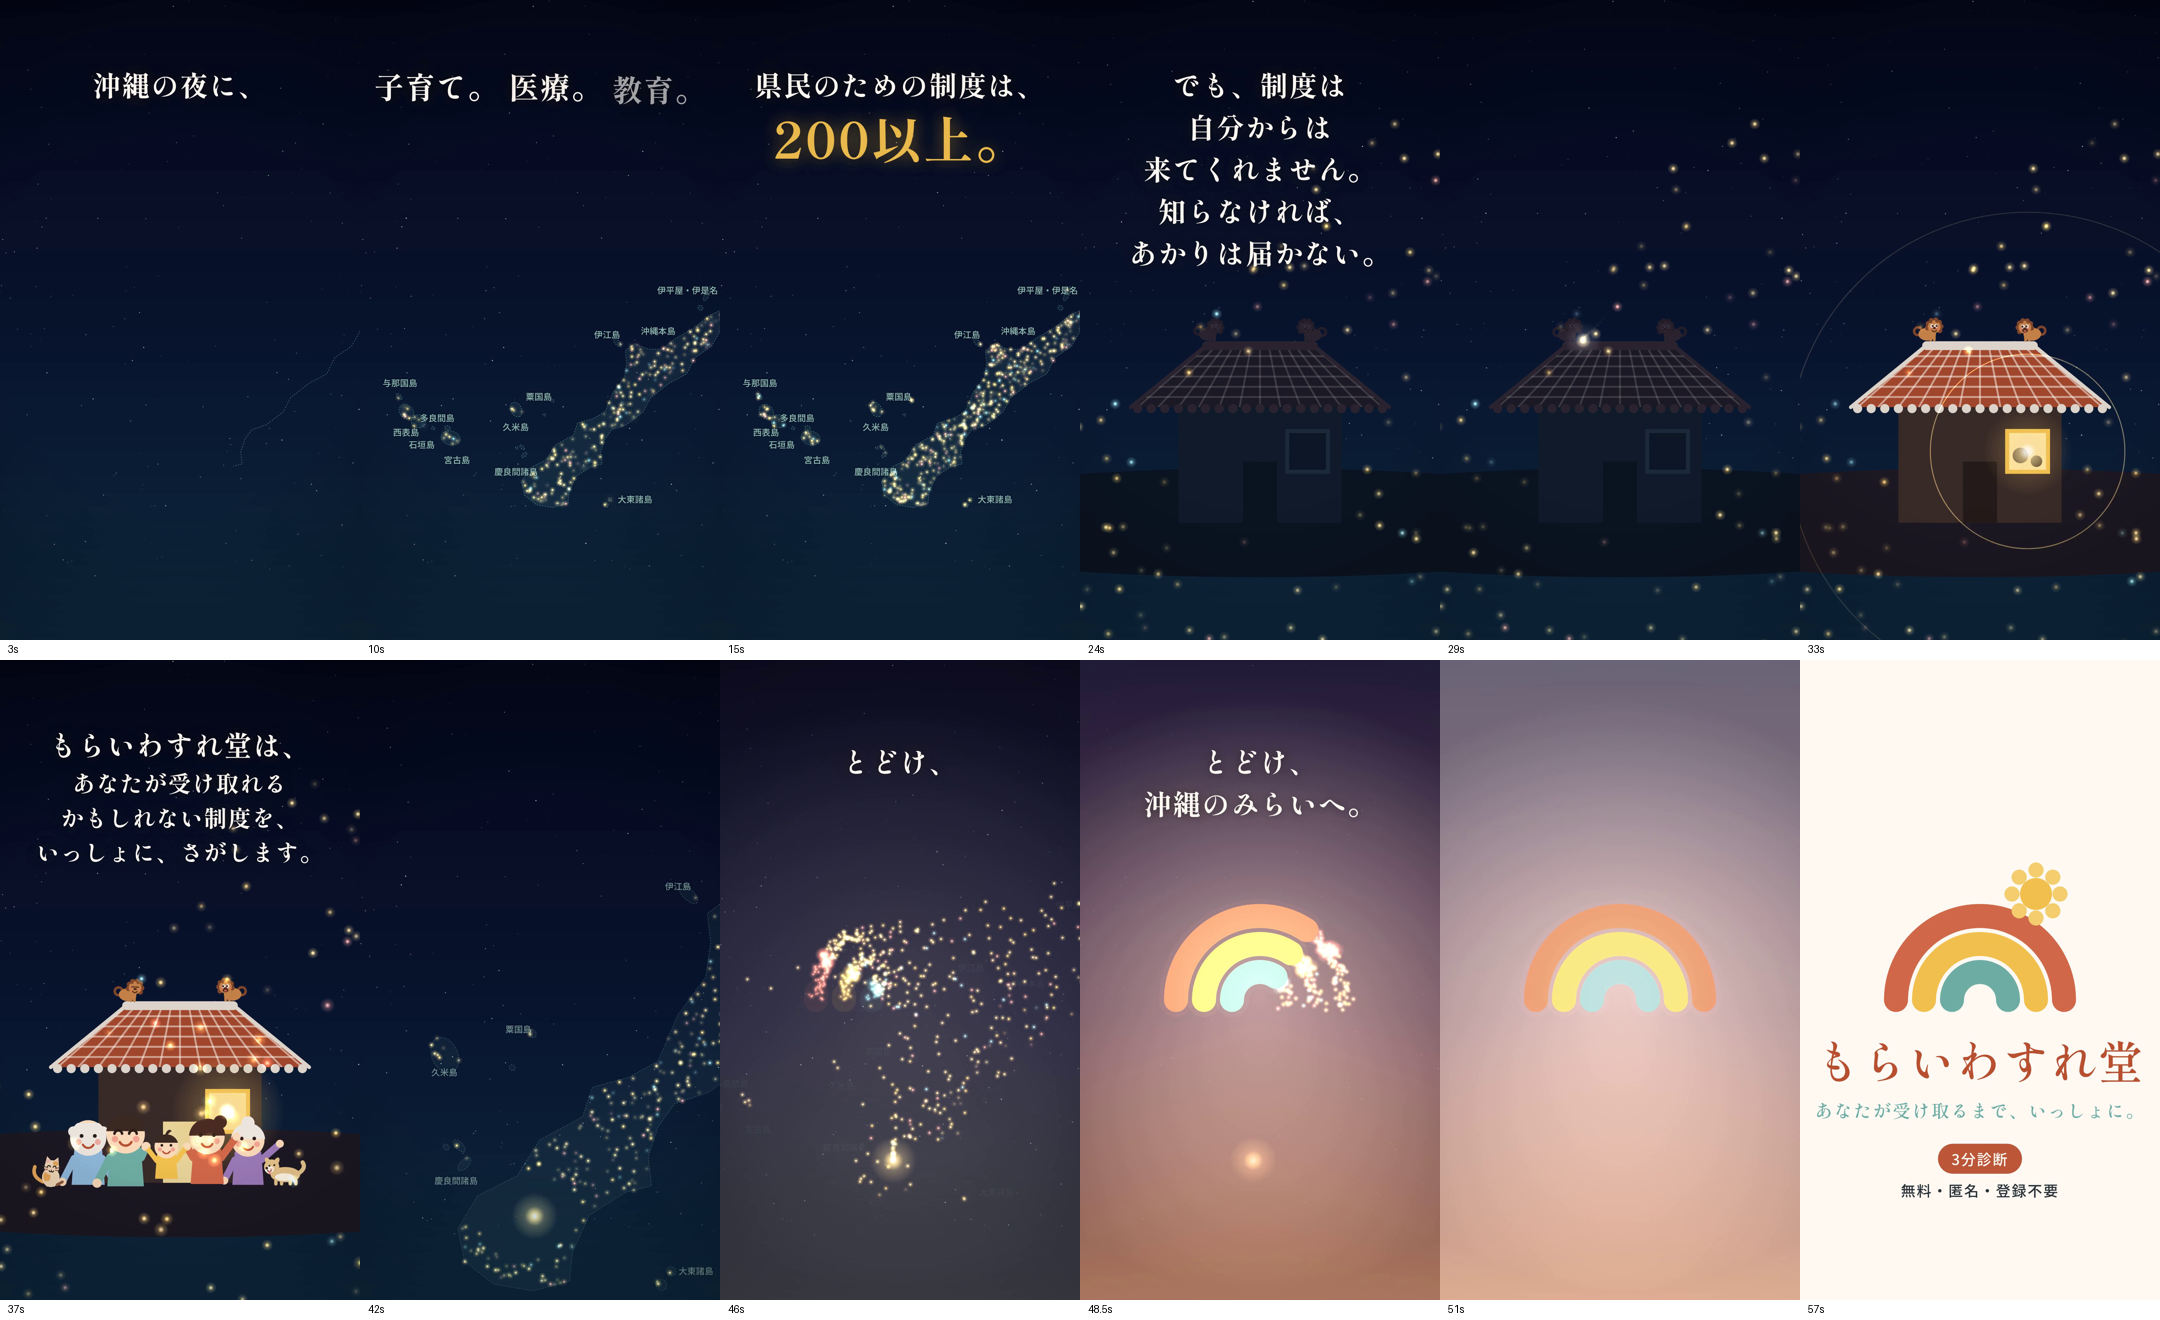
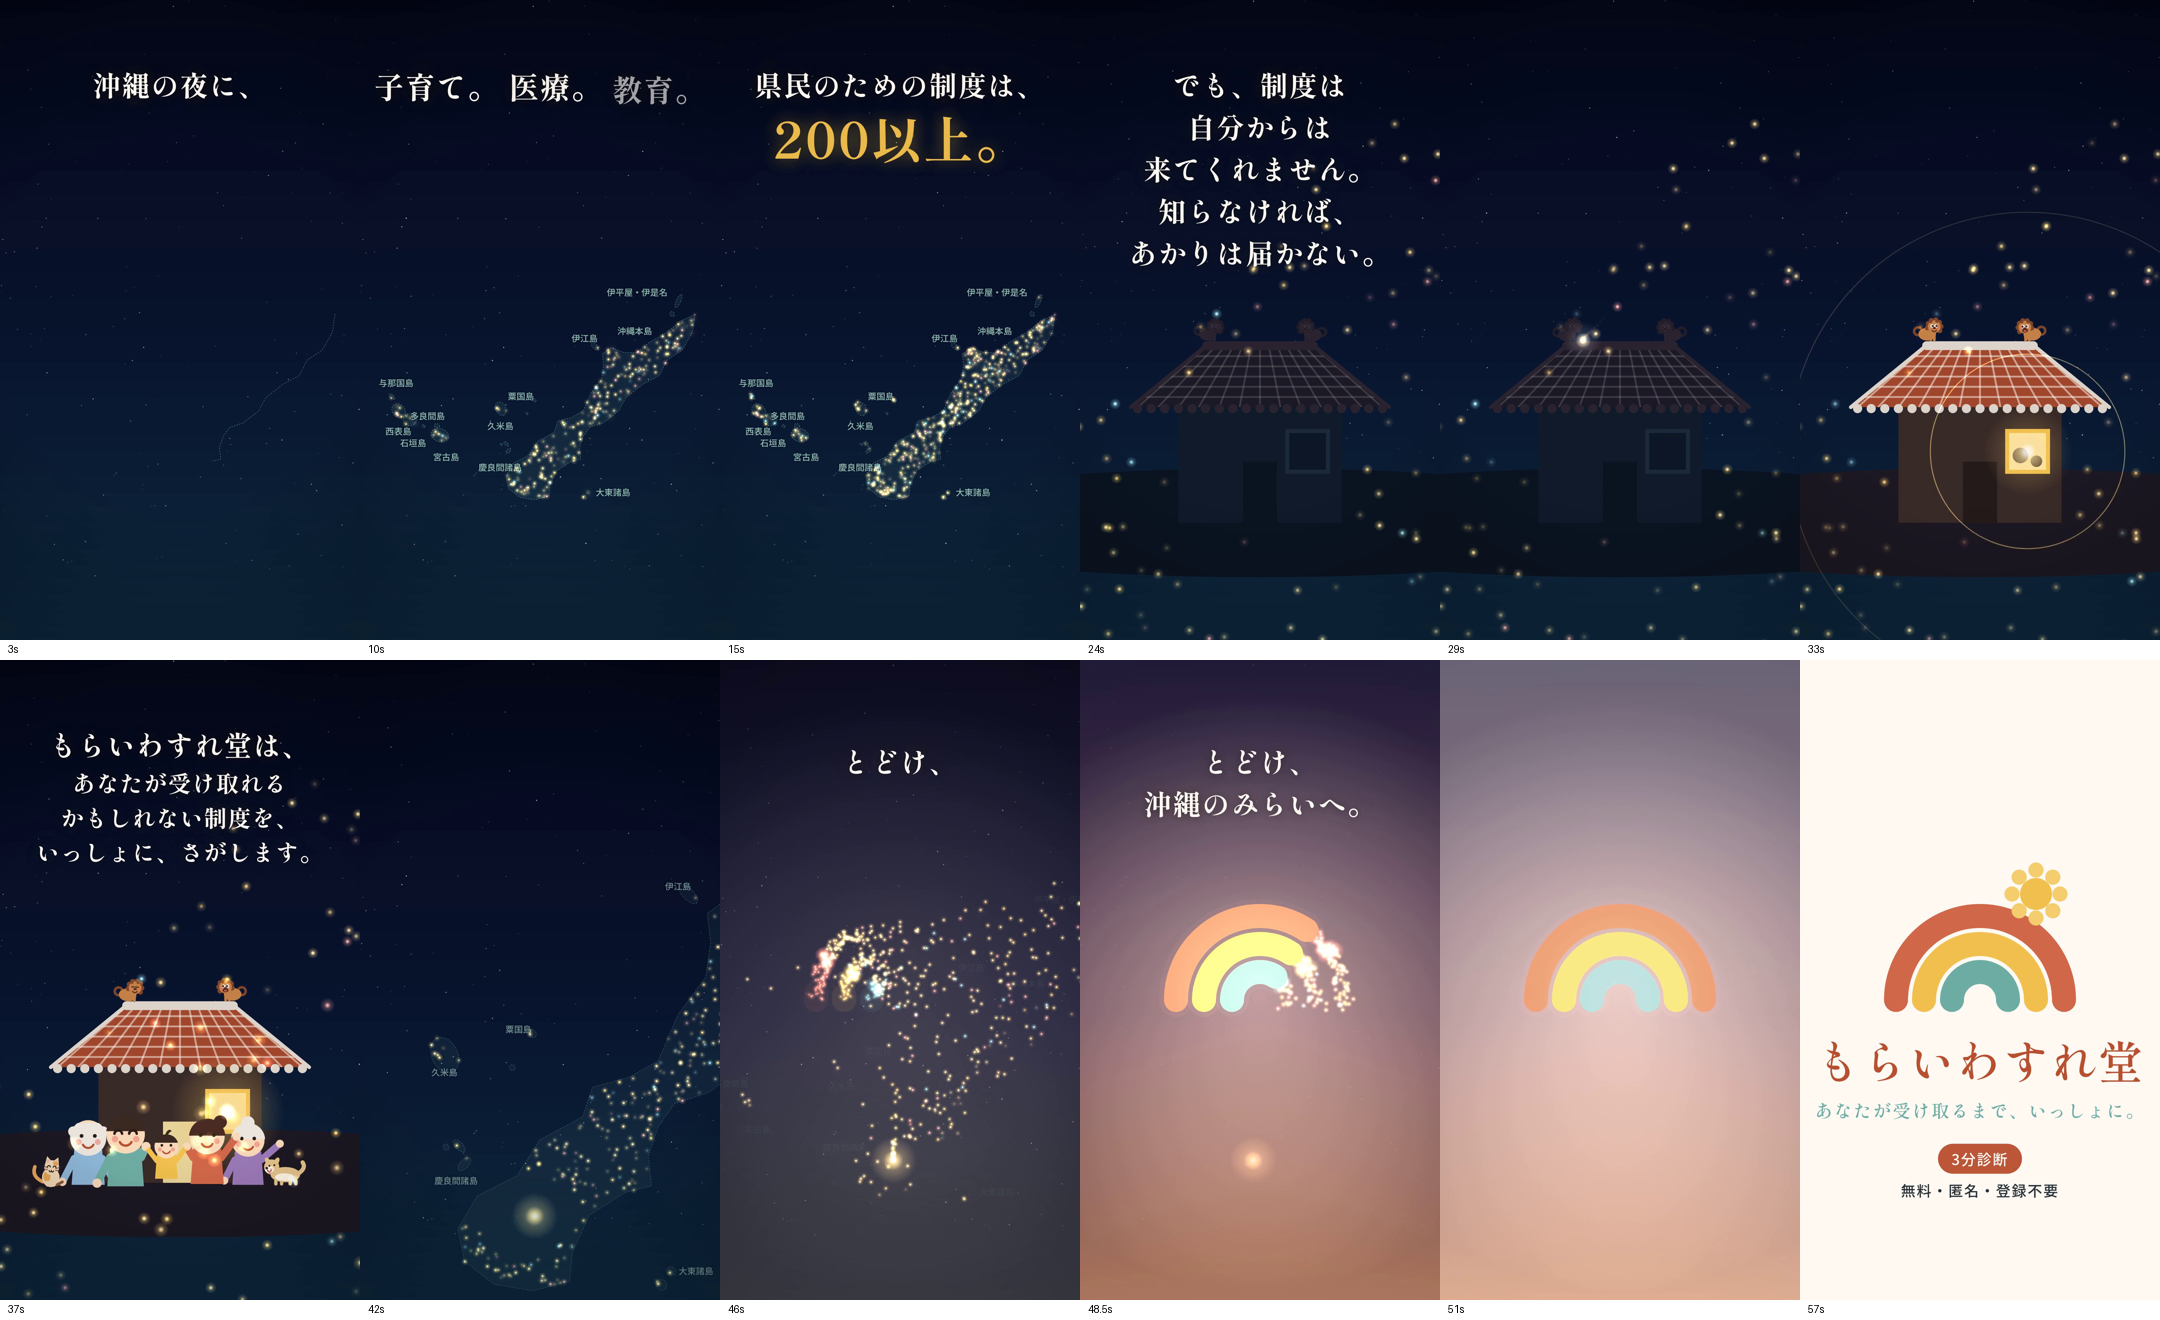
fix: 「あかりの島」の地図が右端で切れていたのを直し、全島が枠内に収まるようにする
- 枠取りの横幅を930pxに詰め、カメラの横ずらしをやめて中央に置く
- 伊平屋・伊是名と与那国島のラベルを島の内側寄りに動かし、画面外へ出ないようにする

Claude-Session: https://claude.ai/code/session_01EUU57gd7iz7iCvLZHfCprB

Changed region(s): [[0.3412, 0.2174, 0.4963, 0.4038], [0.1861, 0.2174, 0.3412, 0.4038]]

diff --git a/video/anime-60s/index.html b/video/anime-60s/index.html
@@ -171,7 +171,7 @@ function rot(x,y){const dx=x-PIV.x,dy=y-PIV.y,c=Math.cos(TILT),sn=Math.sin(TILT)
 for(let i=0;i<ISLAND.length;i++)ISLAND[i]=rot(ISLAND[i][0],ISLAND[i][1]);
 // 離島(様式化・距離は寄せて配置。cx,cy:中心 rx,ry:半径 a:向き(度) label:名前 lx,ly:ラベルの位置ずらし)
 const REMOTE_SRC=[
-  {cx:212,cy:52, rx:12,ry:40,a:-20,label:'伊平屋・伊是名',lx:-150,ly:-10},
+  {cx:212,cy:52, rx:12,ry:40,a:-20,label:'伊平屋・伊是名',lx:-215,ly:-26},
   {cx:238,cy:128,rx:14,ry:12,a:0},
   {cx:62, cy:560,rx:26,ry:12,a:0,  label:'伊江島',lx:-70,ly:-24},
   {cx:36, cy:1010,rx:10,ry:8,a:0, label:'粟国島',lx:-80,ly:-12},
@@ -185,7 +185,7 @@ const REMOTE_SRC=[
   {cx:-300,cy:1548,rx:9, ry:8, a:0,  label:'多良間島',lx:-40,ly:-30},
   {cx:-378,cy:1576,rx:34,ry:38,a:30, label:'石垣島',lx:-30,ly:70},
   {cx:-458,cy:1586,rx:42,ry:34,a:0,  label:'西表島',lx:-40,ly:62},
-  {cx:-540,cy:1556,rx:20,ry:10,a:0,  label:'与那国島',lx:-50,ly:-40},
+  {cx:-540,cy:1556,rx:20,ry:10,a:0,  label:'与那国島',lx:-40,ly:-40},
   {cx:610,cy:1160,rx:10,ry:9, a:0,  label:'大東諸島',lx:22,ly:0},
   {cx:616,cy:1196,rx:12,ry:11,a:0},
 ];
@@ -207,8 +207,8 @@ const KIDX = -4;                                    // 子どもの立ち位置(
 
 // ---------- カメラ ----------
 // S1/S2: 島全体を、上の文字帯(〜560px)を避けて収める
-const Z1=Math.min(1000/(BB.x1-BB.x0), 1200/(BB.y1-BB.y0));
-const CAM1={x:(BB.x0+BB.x1)/2-(55/Z1), y:(BB.y0+BB.y1)/2-(230/Z1), z:Z1};   // 文字帯を避けて、島々を画面の下寄りの中央に
+const Z1=Math.min(930/(BB.x1-BB.x0), 1200/(BB.y1-BB.y0));
+const CAM1={x:(BB.x0+BB.x1)/2, y:(BB.y0+BB.y1)/2-(230/Z1), z:Z1};   // 文字帯を避けて、島々を画面の下寄りの中央に
 // S3/S4: 家に寄る(家は画面中央よりやや下)
 const CAM3={x:HOUSE.x, y:HOUSE.y-64, z:6};
 // S5/S6: 引き。家が画面下(y≒1500)、虹が上
